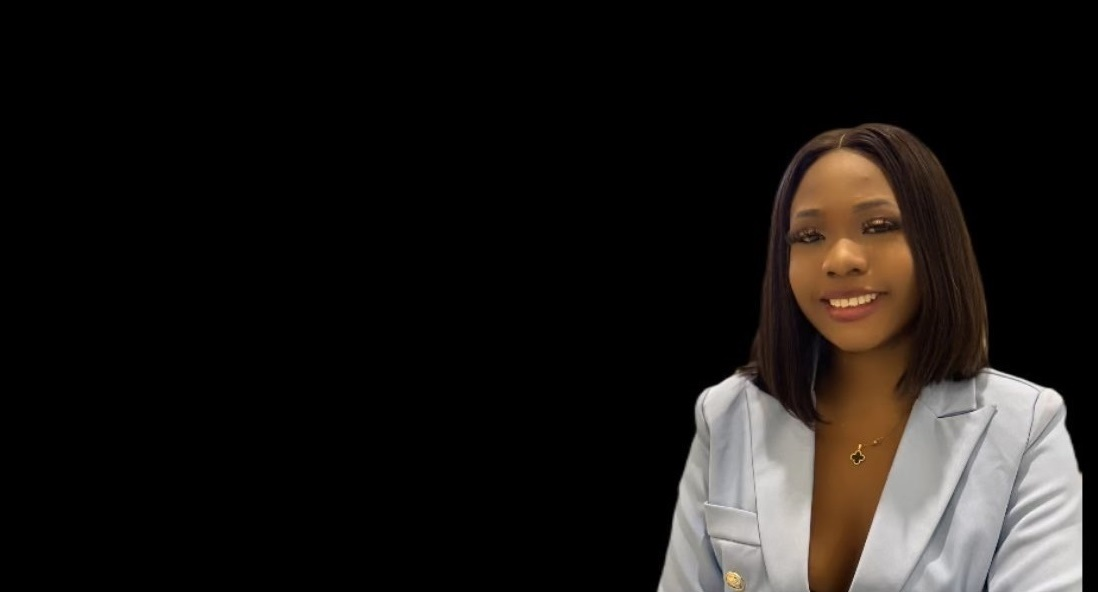
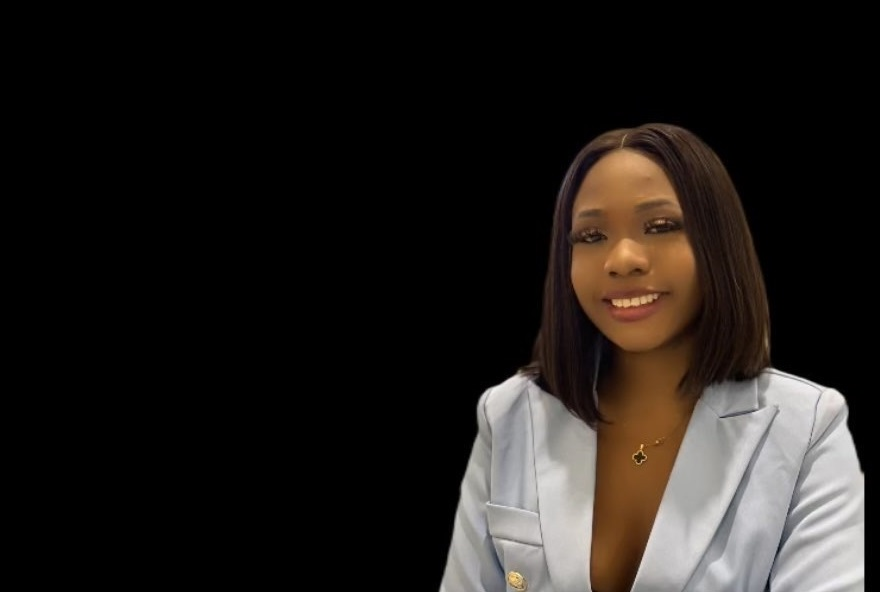
commit

Changed region(s): [[0.4909, 0.1824, 1.0, 1.0]]

diff --git a/style.css b/style.css
@@ -46,12 +46,6 @@ header {
   transition: all .50s ease;
 }
 
-header.sticky {
-  background: var(--bg-color);
-  box-shadow: 0.1rem 1rem rgba(0, 0, 0, 2);
-  padding: 16px 16%;
-}
-
 .logo {
   font-size: 36px;
   color: var(--text-color);
@@ -456,9 +450,6 @@ form .send-btn:hover {
   header {
     padding: 20px 5%;
   }
-  header.sticky {
-    padding: 14px 5%;
-  }
   section {
     padding: 90px 5% 80px;
   }
@@ -539,7 +530,7 @@ form .send-btn:hover {
     text-align: center;
   }
 .about-img img {
-  width: 50%;
+  width: 40%;
   height: 33vh;
 }
 .exp-area {
@@ -557,7 +548,7 @@ form .send-btn:hover {
 }
 }
 
-@media (max-width: 477px) {
+@media (max-width: 500px) {
   :root{
     --h1-font: 0.8rem;
     --h2-font: 1rem;
@@ -578,7 +569,7 @@ form .send-btn:hover {
   }
   /* Hero Section*/
   .hero {
-    height: 35vh;
+    height: 40vh;
     background-position: 55%;
   }
   .main-content h4 {
@@ -593,7 +584,7 @@ form .send-btn:hover {
   .main-content p {
     font-size: 0.5rem;
     font-weight: 400;
-    width: 65%;
+    width: 60%;
     color: var(--other-color);
     line-height: 13px;
     margin-bottom: 1px;
@@ -615,8 +606,8 @@ form .send-btn:hover {
 
   /*About Section*/
   .about-img img {
-    width: 60%;
-    height: 30vh;
+    width: 45%;
+    height: 20vh;
   }
   .exp-area {
     margin-bottom: 30px;
